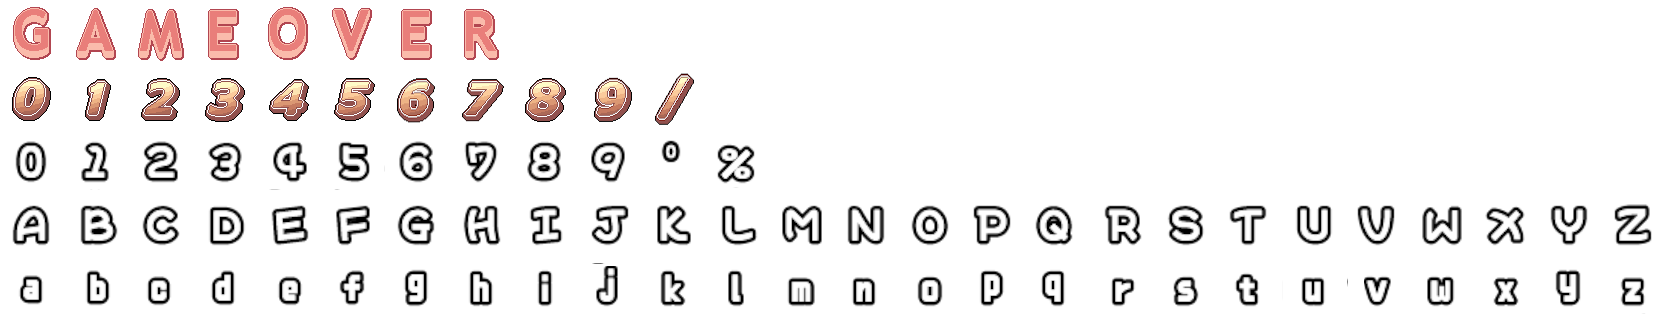
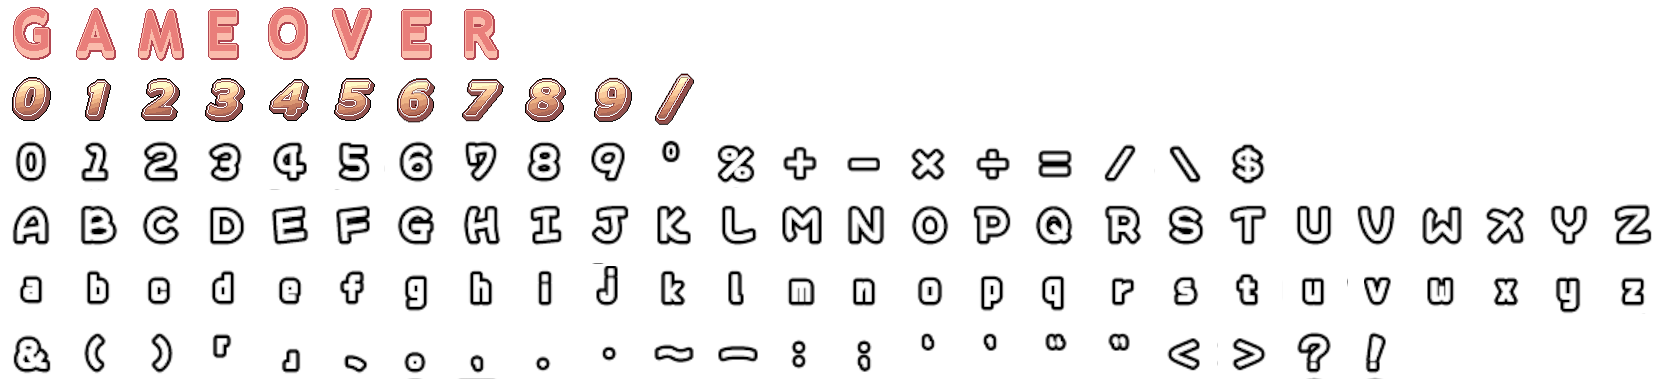
added additional text sprites

Changed region(s): [[0.0, 0.0, 1.0, 0.9688]]

diff --git a/src/app/projects/monkeys/monkeys.component.ts b/src/app/projects/monkeys/monkeys.component.ts
@@ -231,6 +231,50 @@ export class MonkeysComponent implements OnInit, OnDestroy, AfterViewInit {
     '%': 'angle_percent',
     '°': 'angle_degree',
   };
+
+  // Full character → sprite map used by drawSpriteTextCentered and buildQueueCharMap.
+  private readonly TEXT_CHAR_TO_SPRITE: Record<string, string> = (() => {
+    const m: Record<string, string> = {};
+    for (let i = 0; i < 26; i++) {
+      m[String.fromCharCode(65 + i)] = `text_${String.fromCharCode(65 + i)}`;
+      m[String.fromCharCode(97 + i)] = `text_${String.fromCharCode(97 + i)}`;
+    }
+    for (let d = 0; d <= 9; d++) m[String(d)] = `arena_${d}`;
+    // Math symbols (row 3)
+    m['+'] = 'angle_plus';
+    m['-'] = 'angle_minus';
+    m['×'] = 'angle_multiply';
+    m['÷'] = 'angle_divide';
+    m['='] = 'angle_equals';
+    m['/'] = 'angle_slash';
+    m['\\'] = 'angle_backslash';
+    m['$'] = 'angle_dollar';
+    // Punctuation row
+    m['&'] = 'text_ampersand';
+    m['('] = 'text_lparen';
+    m[')'] = 'text_rparen';
+    m['\u300c'] = 'text_jp_open';
+    m['\u300d'] = 'text_jp_close';
+    m['\u3001'] = 'text_jp_comma';
+    m['\u3002'] = 'text_jp_period';
+    m[','] = 'text_comma';
+    m['.'] = 'text_period';
+    m['\u00b7'] = 'text_middledot';
+    m['~'] = 'text_tilde';
+    m[':'] = 'text_colon';
+    m[';'] = 'text_semicolon';
+    m['\u02bb'] = 'text_okina';
+    m["'"] = 'text_apostrophe';
+    m['\u201c'] = 'text_openquote';
+    m['\u201d'] = 'text_closequote';
+    m['<'] = 'text_lt';
+    m['>'] = 'text_gt';
+    m['?'] = 'text_question';
+    m['!'] = 'text_exclaim';
+    m[' '] = '';
+    return m;
+  })();
+
   private readonly ARENA_CHAR_TO_SPRITE: Record<string, string> = {
     '0': 'arena_0',
     '1': 'arena_1',
@@ -2051,12 +2095,7 @@ export class MonkeysComponent implements OnInit, OnDestroy, AfterViewInit {
   }
 
   private buildQueueCharMap(): Record<string, string> {
-    const map: Record<string, string> = {};
-    for (let c = 65; c <= 90; c++) map[String.fromCharCode(c)] = `text_${String.fromCharCode(c)}`;
-    for (let c = 97; c <= 122; c++) map[String.fromCharCode(c)] = `text_${String.fromCharCode(c)}`;
-    for (let d = 0; d <= 9; d++) map[String(d)] = `arena_${d}`;
-    map[' '] = '';
-    return map;
+    return this.TEXT_CHAR_TO_SPRITE;
   }
 
   private renderLoop() {
@@ -3847,13 +3886,7 @@ export class MonkeysComponent implements OnInit, OnDestroy, AfterViewInit {
     const totalWidth = (chars.length - 1) * advance + size;
     let x = CONST.CANVAS_WIDTH / 2 - totalWidth / 2;
     for (const ch of chars) {
-      const code = ch.charCodeAt(0);
-      let spriteName: string | null = null;
-      if (code >= 65 && code <= 90)
-        spriteName = `text_${ch}`; // uppercase A-Z
-      else if (code >= 97 && code <= 122)
-        spriteName = `text_${ch}`; // lowercase a-z
-      else if (code >= 48 && code <= 57) spriteName = `arena_${ch}`; // digits 0-9
+      const spriteName = this.TEXT_CHAR_TO_SPRITE[ch];
       const sprite = spriteName ? this.spriteService.getSprite(spriteName) : null;
       if (sprite) {
         this.ctx.drawImage(
